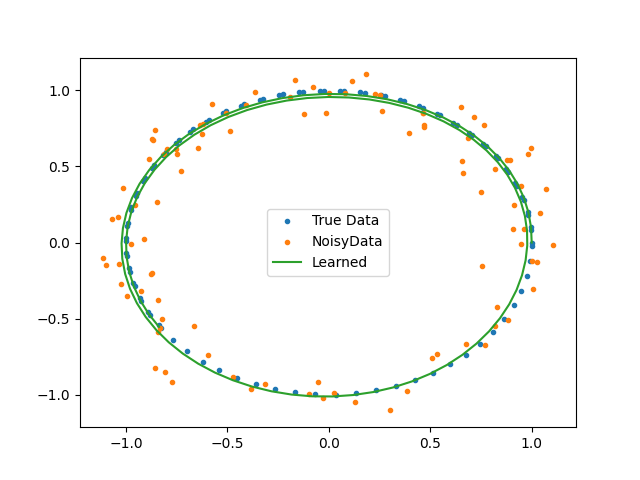
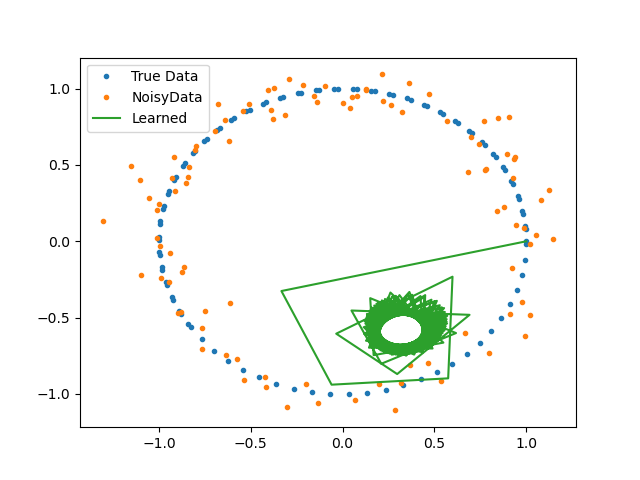
Working with neural-ode

diff --git a/neural_ode_playground/processing_data.py b/neural_ode_playground/processing_data.py
@@ -35,9 +35,9 @@ class ODEFunc(nn.Module):
     def __init__(self):
         super().__init__()
         self.net = nn.Sequential(
-            nn.Linear(1, 500),
+            nn.Linear(1, 10),
             nn.Tanh(),
-            nn.Linear(500, 1),
+            nn.Linear(10, 1),
             nn.Tanh(),
         )
     
@@ -51,22 +51,25 @@ optimizer = torch.optim.Adam(odefunc.parameters(), lr=1e-3)
 
 for epoch in range(10):
     print("Start training")
-    # pred = odeint(odefunc, init_fgr, times)
-    # fgr.unsqueeze(1)
-    # loss = torch.mean((pred - fgr)**2)
+    pred = odeint(odefunc, init_fgr, times)
+    fgr.unsqueeze(1)
+    loss = torch.mean((pred - fgr)**2)
 
-    # optimizer.zero_grad()
-    # loss.backward()
-    # optimizer.step()
+    optimizer.zero_grad()
+    loss.backward()
+    optimizer.step()
 
-    # if epoch % 100 == 0:
-    #     print(f"Epoch {epoch} loss {loss.item():.4f}")
+    print(f"Epoch {epoch} loss {loss.item():.4f}")
     print("End training")
 
+fgr_neural_ode = odeint(odefunc, init_fgr, times)
+
 plt.plot(times, fgr, label = "Sciantix")
-plt.title(f"Fission Gas Release vs Time\nTemp = {df["Temperature (K)"][0]} K")
+plt.plot(times, fgr_neural_ode, label = "Neural-ODE")
+plt.title(f"Fission Gas Release vs Time\nTemp = {df['Temperature (K)'][0]} K")
 plt.xlabel("Time (h)")
 plt.ylabel("Fission gas release (/)")
 plt.grid()
 plt.legend()
+plt.savefig("processing_data.png")
 plt.show()
